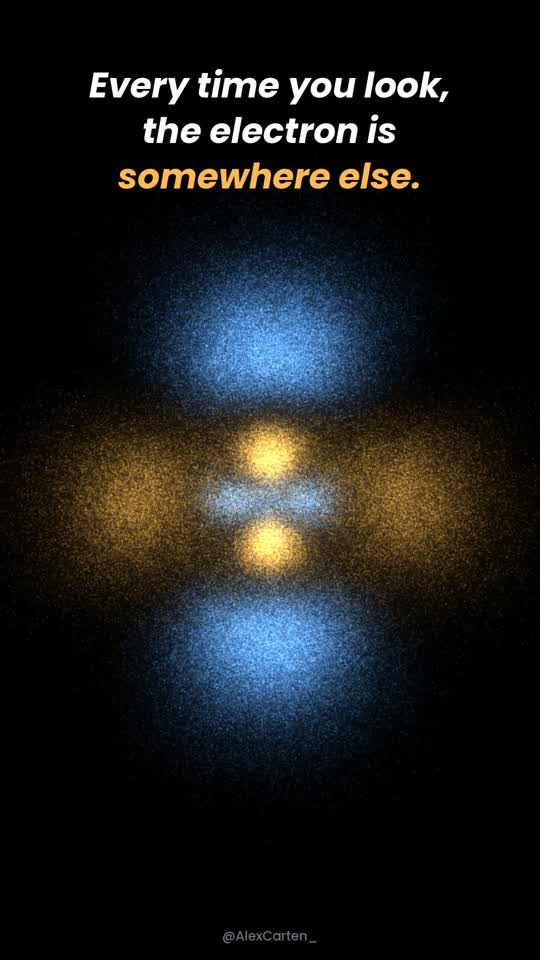
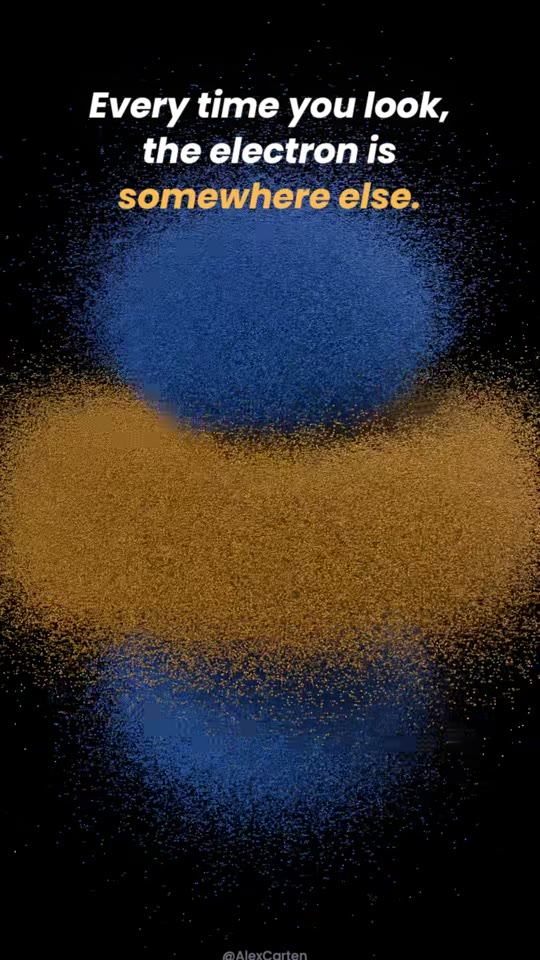
Previews from the 2,000,000-particle Blender render
Claude-Session: https://claude.ai/code/session_01Vhexij53qdyEjQRNatCuYB

diff --git a/README.md b/README.md
@@ -4,9 +4,9 @@
 
 **A hydrogen atom built from 2,000,000 places an electron was found.**
 
-<img src="media/intro.gif" width="260"> &nbsp; <img src="media/build.gif" width="260">
+<img src="media/intro.gif" width="240"> &nbsp; <img src="media/build.gif" width="240"> &nbsp; <img src="media/cut.gif" width="240">
 
-<sub>previews: Python renderer, 130,000 points · the Blender project renders 2,000,000</sub>
+<sub>rendered in Blender with the script in this repo · 2,000,000 points</sub>
 
 *No orbit. No path. Just probability.*
 
@@ -29,7 +29,7 @@ this is the **4d state of hydrogen** (n = 4, l = 2, m = 0), and every point in t
 
 | | |
 |---|---|
-| <img src="media/frame_0.jpg" width="260"> | <img src="media/frame_16.jpg" width="260"> |
+| <img src="media/frame_17.jpg" width="260"> | <img src="media/frame_23.jpg" width="260"> |
 | **Gold** = the wave is positive, **blue** = negative | Cut open: a shell where the electron is **never** found |
 
 ## The math
